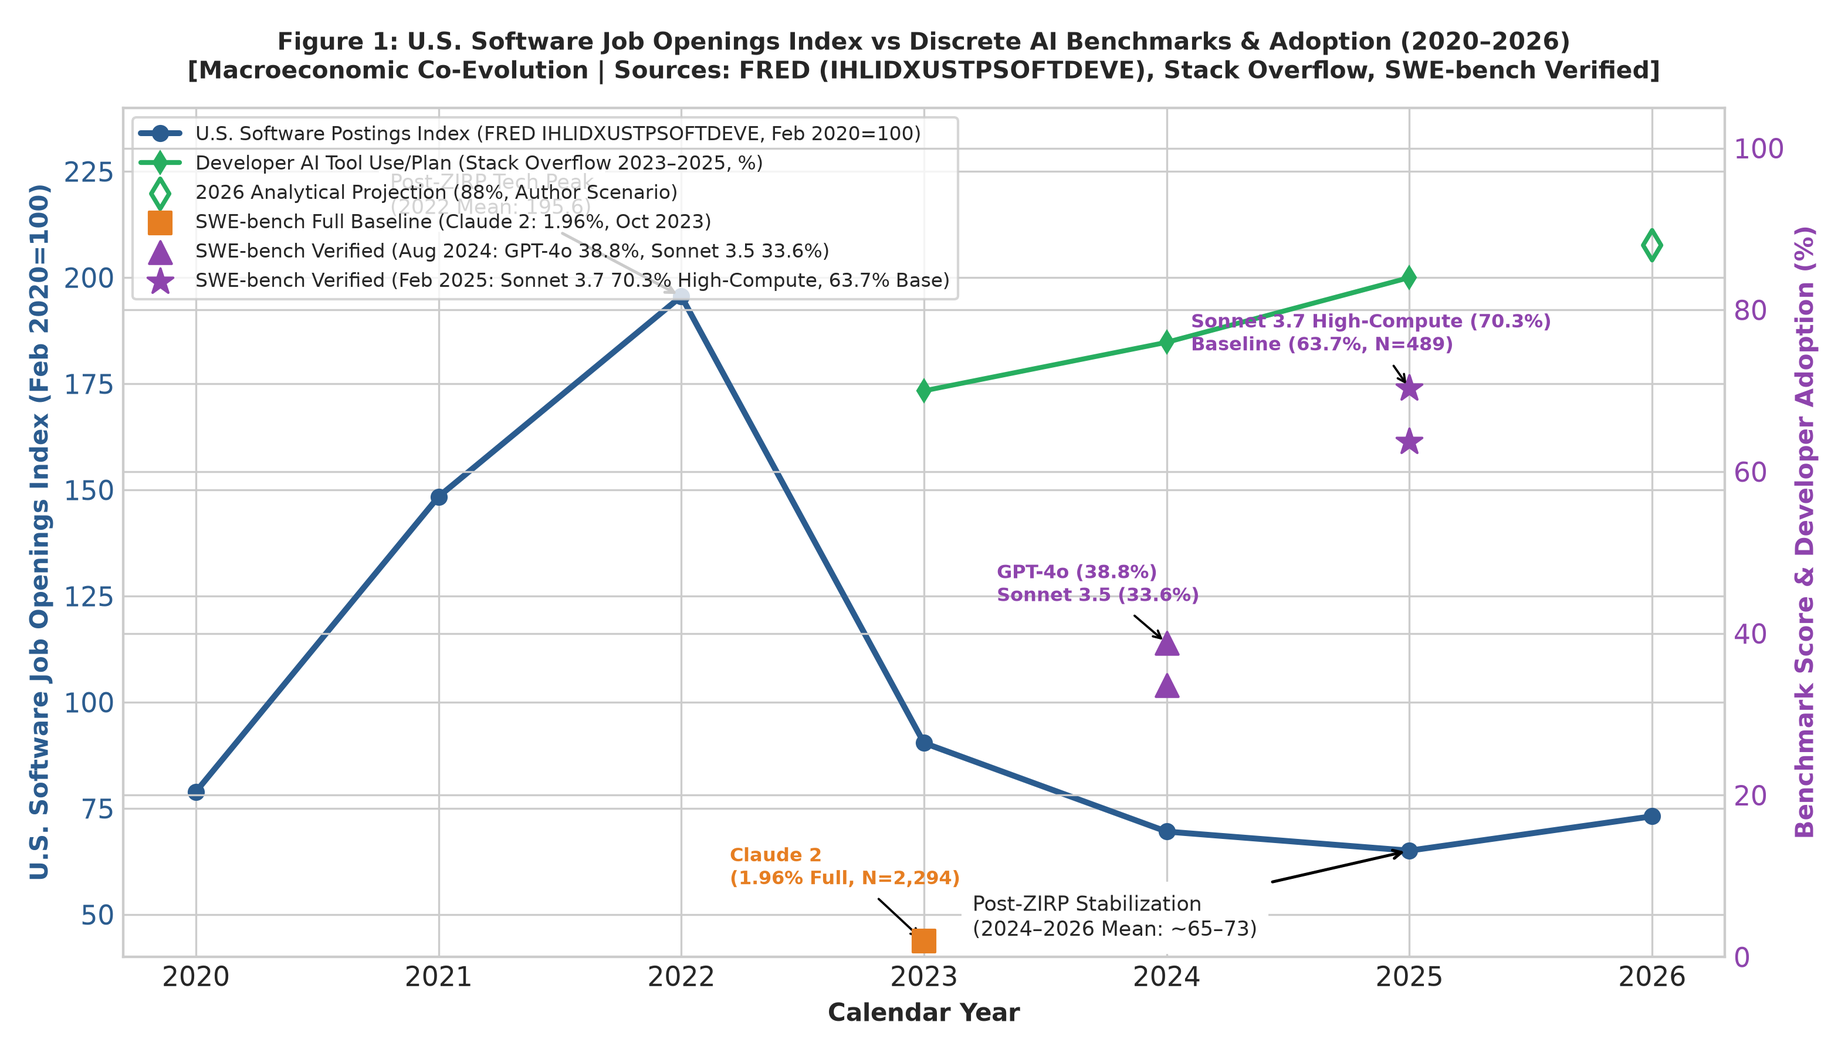
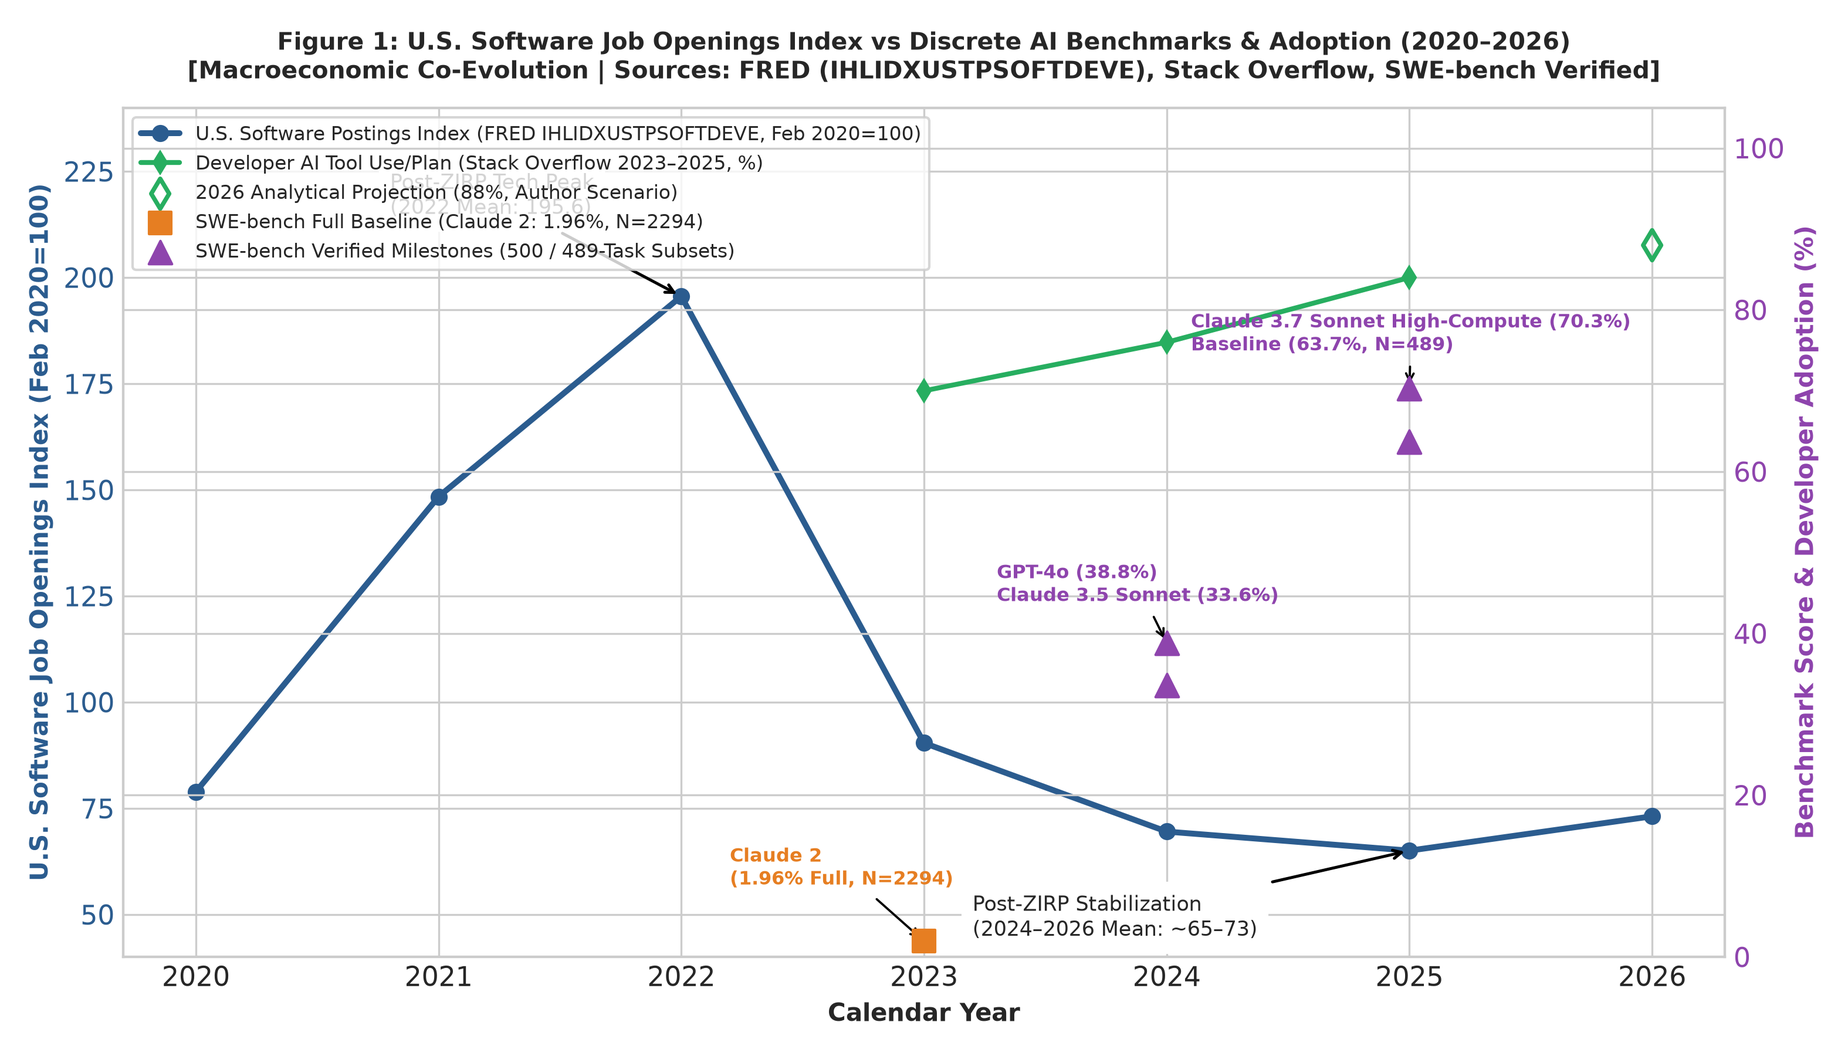
fix: make Figure 1 data-driven, cite Xia et al. Agentless 2024, complete cross-user test suites, and qualify career recommendation

diff --git a/research/src/analyze_market_dynamics.py b/research/src/analyze_market_dynamics.py
@@ -124,26 +124,51 @@ def plot_figure_1_macro_trends(df, milestones_df=None):
                     label='2026 Analytical Projection (88%, Author Scenario)')
 
     # Discrete SWE-bench Milestones (Scatter Points, Disconnected to prevent misleading continuity)
-    # 1. 2023 SWE-bench Full Baseline (Claude 2: 1.96%, Oct 2023)
-    ax2.scatter([2023], [1.96], color=color_swe_full, marker='s', s=80, zorder=6,
-                label='SWE-bench Full Baseline (Claude 2: 1.96%, Oct 2023)')
-    ax2.annotate('Claude 2\n(1.96% Full, N=2,294)', xy=(2023, 1.96), xytext=(2022.2, 9),
-                 fontsize=7.8, color=color_swe_full, fontweight='bold',
-                 arrowprops=dict(facecolor=color_swe_full, arrowstyle='->', lw=0.9))
-
-    # 2. 2024 SWE-bench Verified Launch Milestones (Aug 13, 2024)
-    ax2.scatter([2024, 2024], [38.8, 33.6], color=color_swe_verified, marker='^', s=85, zorder=6,
-                label='SWE-bench Verified (Aug 2024: GPT-4o 38.8%, Sonnet 3.5 33.6%)')
-    ax2.annotate('GPT-4o (38.8%)\nSonnet 3.5 (33.6%)', xy=(2024, 38.8), xytext=(2023.3, 44),
-                 fontsize=7.8, color=color_swe_verified, fontweight='bold',
-                 arrowprops=dict(facecolor=color_swe_verified, arrowstyle='->', lw=0.9))
-
-    # 3. 2025 SWE-bench Verified Milestones (Feb 24, 2025)
-    ax2.scatter([2025, 2025], [63.7, 70.3], color=color_swe_verified, marker='*', s=120, zorder=6,
-                label='SWE-bench Verified (Feb 2025: Sonnet 3.7 70.3% High-Compute, 63.7% Base)')
-    ax2.annotate('Sonnet 3.7 High-Compute (70.3%)\nBaseline (63.7%, N=489)', xy=(2025, 70.3), xytext=(2024.1, 75),
-                 fontsize=7.8, color=color_swe_verified, fontweight='bold',
-                 arrowprops=dict(facecolor=color_swe_verified, arrowstyle='->', lw=0.9))
+    # Driven dynamically from milestones_df
+    if milestones_df is not None and not milestones_df.empty:
+        m_df = milestones_df.copy()
+        m_df['year'] = pd.to_datetime(m_df['release_date']).dt.year
+        
+        # Partition into SWE-bench Full and SWE-bench Verified subsets
+        is_full = m_df['benchmark_variant'].str.contains('Full', case=False, na=False)
+        full_df = m_df[is_full]
+        verified_df = m_df[~is_full]
+        
+        if not full_df.empty:
+            sample_full = full_df.iloc[0]
+            ax2.scatter(full_df['year'], full_df['score_pct'], color=color_swe_full, marker='s', s=80, zorder=6,
+                        label=f"SWE-bench Full Baseline ({sample_full['model']}: {sample_full['score_pct']}%, N={int(sample_full['denominator'])})")
+            for _, row in full_df.iterrows():
+                ax2.annotate(f"{row['model']}\n({row['score_pct']}% Full, N={int(row['denominator'])})",
+                             xy=(row['year'], row['score_pct']), xytext=(row['year'] - 0.8, row['score_pct'] + 7),
+                             fontsize=7.8, color=color_swe_full, fontweight='bold',
+                             arrowprops=dict(facecolor=color_swe_full, arrowstyle='->', lw=0.9))
+                             
+        if not verified_df.empty:
+            ax2.scatter(verified_df['year'], verified_df['score_pct'], color=color_swe_verified, marker='^', s=90, zorder=6,
+                        label='SWE-bench Verified Milestones (500 / 489-Task Subsets)')
+            
+            # Group by year for clear, uncluttered multi-milestone annotations
+            for y, group in verified_df.groupby('year'):
+                top_row = group.sort_values('score_pct', ascending=False).iloc[0]
+                lines = []
+                for _, r in group.sort_values('score_pct', ascending=False).iterrows():
+                    # Format model label cleanly: strip version dates in parens
+                    raw_model = r['model'].split(' (')[0]
+                    scaffold = str(r.get('scaffold', ''))
+                    if 'High-Compute' in scaffold:
+                        lines.append(f"{raw_model} High-Compute ({r['score_pct']}%)")
+                    elif 'Standard' in scaffold or 'Baseline' in scaffold:
+                        lines.append(f"Baseline ({r['score_pct']}%, N={int(r['denominator'])})")
+                    else:
+                        lines.append(f"{raw_model} ({r['score_pct']}%)")
+                
+                anno_text = "\n".join(lines)
+                x_offset = -0.7 if y == 2024 else -0.9
+                y_offset = 5.2 if y == 2024 else 4.7
+                ax2.annotate(anno_text, xy=(y, top_row['score_pct']), xytext=(y + x_offset, top_row['score_pct'] + y_offset),
+                             fontsize=7.8, color=color_swe_verified, fontweight='bold',
+                             arrowprops=dict(facecolor=color_swe_verified, arrowstyle='->', lw=0.9))
                     
     ax2.set_ylabel('Benchmark Score & Developer Adoption (%)', color=color_swe_verified, fontweight='bold')
     ax2.tick_params(axis='y', labelcolor=color_swe_verified)

diff --git a/backend/tests/test_interviews_and_notes.py b/backend/tests/test_interviews_and_notes.py
@@ -73,3 +73,95 @@ def test_application_notes_journal(client, auth_headers, test_company):
     notes = notes_resp.json()
     assert len(notes) == 2
     assert "referral submitted" in notes[0]["content"]
+
+def test_cross_user_interview_stage_isolation(client, auth_headers, auth_headers_b, test_company):
+    """Ensure User B cannot access, create, mutate, or delete User A's interview stages."""
+    # 1. User A creates application and interview stage
+    app_resp = client.post(
+        "/api/v1/applications/",
+        json={"company_id": test_company.id, "job_title": "Distributed Systems Engineer", "status": "screening"},
+        headers=auth_headers
+    )
+    app_id = app_resp.json()["id"]
+
+    stage_resp = client.post(
+        f"/api/v1/applications/{app_id}/interviews",
+        json={
+            "stage_name": "System Architecture Deep Dive",
+            "scheduled_at": datetime.now(timezone.utc).isoformat(),
+            "outcome": "pending"
+        },
+        headers=auth_headers
+    )
+    assert stage_resp.status_code == status.HTTP_201_CREATED
+    stage_id = stage_resp.json()["id"]
+
+    # 2. User B attempts to list User A's interview stages (must return 404)
+    list_b = client.get(f"/api/v1/applications/{app_id}/interviews", headers=auth_headers_b)
+    assert list_b.status_code == status.HTTP_404_NOT_FOUND
+
+    # 3. User B attempts to inject an interview stage into User A's application (must return 404)
+    inject_b = client.post(
+        f"/api/v1/applications/{app_id}/interviews",
+        json={"stage_name": "Unauthorized Stage Injection", "outcome": "failed"},
+        headers=auth_headers_b
+    )
+    assert inject_b.status_code == status.HTTP_404_NOT_FOUND
+
+    # 4. User B attempts to modify User A's interview stage (must return 404)
+    patch_b = client.patch(
+        f"/api/v1/interviews/{stage_id}",
+        json={"outcome": "failed", "interviewer_notes": "Tampered note"},
+        headers=auth_headers_b
+    )
+    assert patch_b.status_code == status.HTTP_404_NOT_FOUND
+
+    # 5. User B attempts to delete User A's interview stage (must return 404)
+    del_b = client.delete(f"/api/v1/interviews/{stage_id}", headers=auth_headers_b)
+    assert del_b.status_code == status.HTTP_404_NOT_FOUND
+
+    # 6. Verify User A's interview stage remains untouched and preserved
+    verify_a = client.get(f"/api/v1/applications/{app_id}/interviews", headers=auth_headers)
+    assert verify_a.status_code == status.HTTP_200_OK
+    assert len(verify_a.json()) == 1
+    assert verify_a.json()[0]["stage_name"] == "System Architecture Deep Dive"
+
+def test_cross_user_application_notes_isolation(client, auth_headers, auth_headers_b, test_company):
+    """Ensure User B cannot list, add, or delete User A's application journal notes."""
+    # 1. User A creates application and a private note
+    app_resp = client.post(
+        "/api/v1/applications/",
+        json={"company_id": test_company.id, "job_title": "Security Engineering Lead"},
+        headers=auth_headers
+    )
+    app_id = app_resp.json()["id"]
+
+    note_resp = client.post(
+        f"/api/v1/applications/{app_id}/notes",
+        json={"content": "Private negotiation notes: Target salary $120k + equity."},
+        headers=auth_headers
+    )
+    assert note_resp.status_code == status.HTTP_201_CREATED
+    note_id = note_resp.json()["id"]
+
+    # 2. User B attempts to read User A's application notes (must return 404)
+    read_b = client.get(f"/api/v1/applications/{app_id}/notes", headers=auth_headers_b)
+    assert read_b.status_code == status.HTTP_404_NOT_FOUND
+
+    # 3. User B attempts to post a note to User A's application (must return 404)
+    post_b = client.post(
+        f"/api/v1/applications/{app_id}/notes",
+        json={"content": "Unauthorized eavesdropping entry"},
+        headers=auth_headers_b
+    )
+    assert post_b.status_code == status.HTTP_404_NOT_FOUND
+
+    # 4. User B attempts to delete User A's note (must return 404)
+    del_b = client.delete(f"/api/v1/notes/{note_id}", headers=auth_headers_b)
+    assert del_b.status_code == status.HTTP_404_NOT_FOUND
+
+    # 5. Verify User A's note remains securely accessible to User A
+    verify_a = client.get(f"/api/v1/applications/{app_id}/notes", headers=auth_headers)
+    assert verify_a.status_code == status.HTTP_200_OK
+    assert len(verify_a.json()) == 1
+    assert "Private negotiation notes" in verify_a.json()[0]["content"]

diff --git a/backend/tests/test_analytics.py b/backend/tests/test_analytics.py
@@ -41,3 +41,29 @@ def test_funnel_analytics_calculation(client, auth_headers, test_company):
     assert data["by_status"]["applied"] == 1
     assert data["by_status"]["offer_received"] == 1
     assert data["by_status"]["rejected"] == 1
+
+def test_cross_user_analytics_isolation(client, auth_headers, auth_headers_b, test_company):
+    """Ensure User B's funnel metrics remain completely isolated from User A's applications."""
+    # User A creates multiple applications across different stages
+    stages = ["applied", "technical_interview", "offer_received"]
+    for idx, s in enumerate(stages):
+        client.post(
+            "/api/v1/applications/",
+            json={
+                "company_id": test_company.id,
+                "job_title": f"User A Analytics Test Role {idx}",
+                "status": s
+            },
+            headers=auth_headers
+        )
+
+    # User B requests analytics - must remain 0 and completely isolated
+    res_b = client.get("/api/v1/analytics/", headers=auth_headers_b)
+    assert res_b.status_code == status.HTTP_200_OK
+    data_b = res_b.json()
+    assert data_b["total_applications"] == 0
+    assert data_b["active_applications"] == 0
+    assert data_b["offers_received"] == 0
+    assert data_b["rejections"] == 0
+    assert data_b["response_rate_pct"] == 0.0
+    assert all(count == 0 for count in data_b["by_status"].values())

diff --git a/research/data/SOURCES.md b/research/data/SOURCES.md
@@ -76,14 +76,14 @@ We present benchmark progress as discrete milestones with explicit models, scaff
 | Milestone ID | Date | Model & Version | Agent Scaffold / Method | Benchmark Variant | Denominator | Resolved Tasks | Score (%) | Primary Source URL |
 | :--- | :---: | :--- | :--- | :--- | :---: | :---: | :---: | :--- |
 | `swe_full_2023_claude2` | 2023-10-10 | Claude 2 | BM25 Retrieval + Prompt Baseline | SWE-bench Full | 2,294 | 45.0 | **1.96%** | [arXiv:2310.06770](https://arxiv.org/abs/2310.06770) |
-| `swe_verified_2024_gpt4o` | 2024-08-13 | GPT-4o (2024-05-13) | Agentless scaffold (Xia et al.) | SWE-bench Verified | 500 | 194.0 | **38.8%** | [OpenAI Announcement](https://openai.com/index/introducing-swe-bench-verified/) |
-| `swe_verified_2024_sonnet35`| 2024-08-13 | Claude 3.5 Sonnet (2024-06-20) | SWE-agent scaffold (Yang et al.) | SWE-bench Verified | 500 | 168.0 | **33.6%** | [OpenAI Announcement](https://openai.com/index/introducing-swe-bench-verified/) |
+| `swe_verified_2024_sonnet35`| 2024-08-13 | Claude 3.5 Sonnet (2024-06-20) | SWE-agent scaffold (Yang et al.) | SWE-bench Verified | 500 | 168.0 | **33.6%** | [OpenAI Launch](https://openai.com/index/introducing-swe-bench-verified/) |
+| `swe_verified_2024_gpt4o` | 2024-09-02 | GPT-4o (2024-05-13) | Agentless scaffold (Xia et al.) | SWE-bench Verified | 500 | 194.0 | **38.8%** | [arXiv:2407.01489](https://arxiv.org/abs/2407.01489) |
 | `swe_verified_2025_sonnet37_base` | 2025-02-24 | Claude 3.7 Sonnet (2025-02-19) | Standard Unassisted Baseline | SWE-bench Verified (Evaluated) | 489 | 311.5 | **63.7%** | [Anthropic Release](https://www.anthropic.com/news/claude-3-7-sonnet) |
 | `swe_verified_2025_sonnet37_high` | 2025-02-24 | Claude 3.7 Sonnet (2025-02-19) | Anthropic High-Compute Agent Scaffold | SWE-bench Verified (Evaluated) | 489 | 343.8 | **70.3%** | [Anthropic Release](https://www.anthropic.com/news/claude-3-7-sonnet) |
 
 ### Benchmark Provenance Notes:
 1. **Original SWE-bench 2023 Baseline:** The original benchmark release (Jimenez et al., ICLR 2024 / arXiv:2310.06770) evaluated 2,294 tasks across 12 repositories. Claude 2 resolved 45 tasks (1.96%), and GPT-4 resolved 40 tasks (1.74%). The previously cited 4.2% figure was an unverified secondary composite or Lite subset and is not comparable to full or verified evaluations.
-2. **2024 Verified Launch Attribution:** On the 500-task Verified subset introduced August 13, 2024, GPT-4o with Agentless solved 194/500 (38.8%), whereas Claude 3.5 Sonnet with SWE-agent solved 168/500 (33.6%).
+2. **2024 Verified Launch & Agentless Comparative Evaluation:** In the benchmark launch announcement (August 13, 2024), OpenAI and Princeton evaluated baseline open-source scaffolds: Claude 3.5 Sonnet with SWE-agent achieved 168/500 (33.6%), and GPT-4o scored 33.2% (166/500). Xia et al. (arXiv:2407.01489, revision dated Sept 2, 2024; OpenReview: https://openreview.net/forum?id=oWFo4H7mrj) evaluated Agentless with GPT-4o on the newly released Verified subset, achieving 194/500 (38.8%).
 3. **Claude 3.7 Sonnet Evaluation & Expected Task Equivalents:** Anthropic reported evaluations on 489 tasks due to 11 infrastructure-incompatible tasks in the environment (e.g., repository Docker container failures). The 70.3% score used test-time compute with parallel thinking and search tools, compared to 63.7% unassisted on that same 489-task subset. Fractional task values (343.8 and 311.5) represent expected task equivalents calculated from Pass@1 averages across repeated sampling trials over the 489 evaluated problems.
 4. **2026 Benchmark Status:** Recorded as `null` / unobserved in our empirical time-series. While third-party agentic scaffolds continue to post experimental results to the public leaderboard, no single vetted foundation-model frontier milestone has been officially established as definitive for full calendar year 2026. To preserve empirical integrity, unverified point snapshots are omitted.
 5. **Limits of Benchmark Evidence:** A rising benchmark score indicates progress on curated GitHub issue resolution within isolated Docker sandboxes. It does not prove that AI coding agents have replaced entry-level software engineers or caused market contraction.

diff --git a/research/paper/main_manuscript.md b/research/paper/main_manuscript.md
@@ -89,7 +89,7 @@ Figure 1 plots the co-evolution of U.S. software job postings (Indeed Hiring Lab
 ```
 Table 1: Longitudinal Software Engineering & Technology Trajectories (2020–2026)
 +------+-----------------------+----------------------+---------------------------+------------------------+
-| Year | AI Tool Adoption (%)* | SWE-bench Verif. (%)^| U.S. Openings Index**     | Tech Layoffs (Global)  |
+| Year | AI Tool Adoption (%)* | SWE-bench Milestones^| U.S. Openings Index**     | Tech Layoffs (Global)  |
 +------+-----------------------+----------------------+---------------------------+------------------------+
 | 2020 |          —            |          —           |          78.9 (Part-yr)   |         80,000         |
 | 2021 |          —            |          —           |         148.4             |         15,000         |
@@ -100,7 +100,7 @@ Table 1: Longitudinal Software Engineering & Technology Trajectories (2020–202
 | 2026 |       88.0% (Proj.)   |          —           |          73.1 (YTD)       |         75,000 (YTD)   |
 +------+-----------------------+----------------------+---------------------------+------------------------+
 * Notes: 2020–2022 unobserved (no dedicated Stack Overflow survey item). 2023–2025 audited from Stack Overflow Developer Surveys: 2023 (44% using + 26% planning = 70%), 2024 (62% using + 14% planning = 76%), and 2025 AI Survey (84% using or planning; 51% daily use among professional developers). 2026 is an author analytical projection based on enterprise adoption trajectory.
-^ Notes: SWE-bench Verified was launched August 13, 2024 (500 human-validated tasks); values for 2020–2023 and 2026 are unobserved. In 2023, the original full SWE-bench (2,294 tasks) recorded a baseline top score of 1.96% (45/2,294) for Claude 2 (Jimenez et al., 2023); 4.2% was an unverified secondary composite or Lite subset score. 2024 evaluates GPT-4o with Agentless scaffold (38.8%, 194/500) and Claude 3.5 Sonnet with SWE-agent (33.6%, 168/500; OpenAI Verified launch evaluation). 2025 evaluates Claude 3.7 Sonnet with high-compute scaffold (70.3%, 343.8 expected tasks on 489 evaluated tasks excluding 11 environment-incompatible tasks; unassisted baseline was 63.7%, 311.5 expected tasks; Anthropic, Feb 2025). 2026 full-year frontier benchmarks remain unobserved / under ongoing evaluation.
+^ Notes: Selected dated benchmark milestones across distinct configurations and evaluation subsets (not exhaustive annual maximums). SWE-bench Verified was launched August 13, 2024 (500 human-validated tasks); values for 2020–2023 and 2026 are unobserved in the Verified series. In 2023, the original full SWE-bench (2,294 tasks) recorded a baseline top score of 1.96% (45/2,294) for Claude 2 (Jimenez et al., 2023); 4.2% was an unverified secondary composite or Lite subset score. 2024 records the OpenAI Verified launch baseline for Claude 3.5 Sonnet with SWE-agent (33.6%, 168/500; August 13, 2024) and Xia et al.'s Agentless evaluation with GPT-4o (38.8%, 194/500; arXiv:2407.01489, revision dated September 2, 2024). 2025 evaluates Claude 3.7 Sonnet with high-compute scaffold (70.3%, 343.8 expected tasks on 489 evaluated tasks excluding 11 environment-incompatible tasks; unassisted baseline was 63.7%, 311.5 expected tasks; Anthropic, Feb 2025). 2026 full-year frontier benchmarks remain unobserved / under ongoing evaluation.
 ** Notes: Daily series IHLIDXUSTPSOFTDEVE from FRED / Indeed Hiring Lab (Feb 1, 2020 = 100.0). Annual aggregates computed from 2,445 daily observations: 2020 is partial year (Feb 1–Dec 31, 335 obs, mean 78.91, min 64.70, max 100.78); full-year means for 2021 (148.41, min 90.54, max 217.96), 2022 (195.59, min 130.51, max 233.83), 2023 (90.40, min 72.17, max 130.27), 2024 (69.53, min 66.53, max 72.58), and 2025 (65.05, min 61.10, max 68.02); 2026 is an observed YTD snapshot through Oct 9, 2026 (282 obs, mean 73.13, min 66.92, max 78.34). Retrieved 2026-10-16.
 ```
 

diff --git a/README.md b/README.md
@@ -4,7 +4,7 @@
 [![FastAPI](https://img.shields.io/badge/FastAPI-0.115+-009688.svg)](https://fastapi.tiangolo.com)
 [![SQLAlchemy](https://img.shields.io/badge/SQLAlchemy-2.0+-red.svg)](https://www.sqlalchemy.org/)
 [![PostgreSQL](https://img.shields.io/badge/PostgreSQL-16-336791.svg)](https://www.postgresql.org/)
-[![Backend Tests](https://img.shields.io/badge/Backend%20Tests-22%20Passing-success.svg)](backend/tests/)
+[![Backend Tests](https://img.shields.io/badge/Backend%20Tests-25%20Passing-success.svg)](backend/tests/)
 [![Research Checks](https://img.shields.io/badge/Research%20Checks-Passing-success.svg)](research/tests/)
 [![AI Learning Framework](https://img.shields.io/badge/AI%20Framework-6%20Passing-success.svg)](ai_learning_research/tests/)
 [![License: MIT](https://img.shields.io/badge/License-MIT-yellow.svg)](LICENSE)
@@ -50,7 +50,7 @@ whattochoose/
 │   │   └── static/                     # Embedded static build
 │   ├── alembic/                        # Versioned database migration scripts
 │   ├── alembic.ini                     # Alembic migration configuration
-│   ├── tests/                          # 22 passing PyTest unit, integration, migration & cross-user security tests
+│   ├── tests/                          # 25 passing PyTest unit, integration, migration & cross-user security tests
 │   ├── docker-entrypoint.sh            # Container migration runner & process supervisor
 │   ├── Dockerfile                      # Python 3.12 slim container
 │   ├── docker-compose.yml              # Local dev multi-container setup with PostgreSQL 16
@@ -159,8 +159,8 @@ python -m pytest -v ai_learning_research/tests/test_protocols_and_sources.py
 2. **The Verification Bottleneck:**  
    As autonomous coding models reduce the marginal cost of producing routine syntax ($C_{\text{gen}} \downarrow$), human engineering effort shifts toward verifying business correctness, handling non-trivial edge cases, and auditing security ($C_{\text{verif}} \uparrow$).
 
-3. **Reasoned Specialization Track:**  
-   The empirical evidence argues against superficial multi-stack switching. Committing deeply to a high-leverage backend stack (**Python / FastAPI + PostgreSQL + PyTest**) and shipping a verifiable, deployed project provides a disciplined, defensible foundation to secure entry-level employment.
+3. **Strategic Specialization Recommendation:**  
+   Given the importance of demonstrable technical competence in a competitive entry-level market, candidates benefit from focusing deeply on a high-leverage backend stack (**Python / FastAPI + PostgreSQL + PyTest**) to build, test, deploy, and defend a substantial portfolio application rather than engaging in superficial multi-stack switching. This is a reasoned career strategy, not a causal finding established by the labor-market dataset.
 
 ---
 
